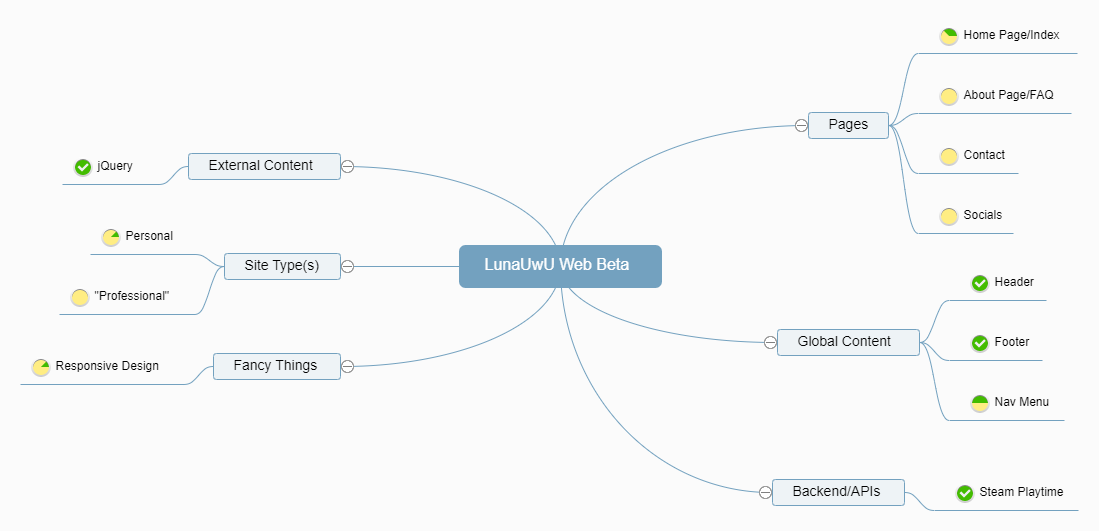
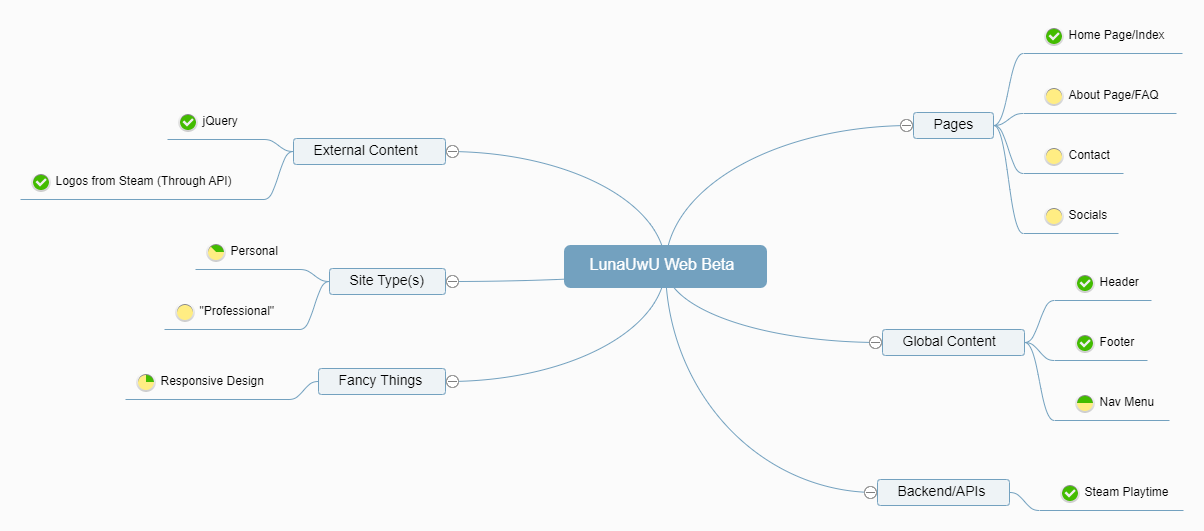
Finish(?) Index.

diff --git a/index.html b/index.html
@@ -24,6 +24,16 @@
 <body>
     <div class="nav-header" data-include="header"></div>
 
+
+
+  <!-- WIP Warning Overlay Banner -->
+  <div class="overlay-banner">
+    <p>This website is a work in progress. Some features may not be available.</p>
+    <a href="/mindmap.png">Click here to see the current progress status.</a>
+  </div>
+
+
+
     <div class="banner">
       <h1>Hello, I'm Luna.</h1>
       <p>Trans woman and a huge nerd.</p>
@@ -51,29 +61,125 @@
           <li>I'm gayer than your refrigerator.</li>
         </ul>
       </div>
+      </div>
+    </div>
+
+
+
+    <script>
+      fetch('https://api.lunauwu.net/playtime')
+          .then(response => response.json())
+          .then(data => {
+              // Update VRChat playtime
+              const vrcPlaytimeElement = document.getElementById('vrc-playtime');
+              vrcPlaytimeElement.textContent = `Hours on record: ${(data.vrchat.playtime / 60).toFixed(1)} hours`;
+
+              // Update VRChat image
+              const vrcImageElement = document.getElementById('vrc-image');
+              vrcImageElement.src = data.vrchat.image;
+
+              // Update Beat Saber playtime
+              const bsPlaytimeElement = document.getElementById('bs-playtime');
+              bsPlaytimeElement.textContent = `Hours on record: ${(data.beat_saber.playtime / 60).toFixed(1)} hours`;
+
+              // Update Beat Saber image
+              const bsImageElement = document.getElementById('bs-image');
+              bsImageElement.src = data.beat_saber.image;
+          })
+          .catch(error => {
+              console.error('Error fetching playtime data:', error);
+          });
+  </script>
+
+
+
+<div class="section2">
+  <h2>My heavy addiction to the virtual world</h2>
+<section class="image-section">
+  <div class="image-container">
+    <h3 class="image-title">VRChat, a social platform.</h3>
+    <img id="vrc-image" src="assets\image\loading.png" alt="VRChat">
+    <div class="caption-box">
+      <p class="caption">The social platform I've spent the most time and money on. I recommend only trying it if you're above 16 years of age.</p>
+      <p class="playtime-text" id="vrc-playtime">Loading...</p>
     </div>
   </div>
+  <div class="image-container">
+    <h3 class="image-title">Beat Saber, a rythm game.</h3>
+    <img id="bs-image" src="assets\image\loading.png" alt="Beat Saber">
+    <div class="caption-box">
+      <p class="caption">This game is not for the weak. It is responsible for countless injuries and broken hardware. Only play if you're ready to suffer.</p>
+      <p class="playtime-text" id="bs-playtime">Loading...</p>
+    </div>
+  </div>
+</section>
+</div>
+
+<script>
+
+window.addEventListener('load', function() {
+  const birthDate = new Date('2004-06-15'); // Replace with your birth date
+  const currentDate = new Date();
+  let age = currentDate.getFullYear() - birthDate.getFullYear();
+  const birthMonth = birthDate.getMonth();
+  const currentMonth = currentDate.getMonth();
+  const birthDay = birthDate.getDate();
+  const currentDay = currentDate.getDate();
+  if (currentMonth < birthMonth || (currentMonth === birthMonth && currentDay < birthDay)) {
+    age--;
+  }
+
+  const agePlaceholder = document.getElementById('agePlaceholder');
+  agePlaceholder.textContent = age;
+
+  const formattedBirthDate = birthDate.toLocaleDateString('en-GB');
+  const tooltipMessage = `I was born on ${formattedBirthDate}.`;
+  const omgimthisoldElement = document.getElementById('omgimthisold');
+  omgimthisoldElement.setAttribute('title', tooltipMessage);
+});
 
 
+</script>
 
-  <section id="home">
-    <h1>Welcome to Luna's Beta website.</h1>
-    <p>This site is actively being worked on.</p>
-    <a href="/mindmap.png">Click here to see the current progress status.</a>
+
+<div class="section3">
+
+  <section class="faq-section">
+    <h2>Frequently Asked Questions</h2>
+    <div class="faq-item">
+      <h3 class="question">Are you a furry?</h3>
+      <p class="answer">"Furry", the kind of person who has a special interest in anthropomorphic (Humanized) animals.<br>That sounds fitting I guess. So... Sure. I guess I might be a furry.</p>
+    </div>
+    <div class="faq-item">
+      <h3 class="question">Who made your X?</h3>
+      <p class="answer">There's a big chance that what you see me use is made either fully or partially by me.<br>I am decently skilled when it comes to being creative, so I tend to do my own work for things like logos, banners, avatar textures and other things.<br>If it's not fully my work, I will happily give credit when asked..</p>
+    </div>
+    <div class="faq-item">
+      <h3 class="question">What software do you use?</h3>
+      <p class="answer">I use a lot of Adobe software, such as Photoshop and After Effects<br>I orginally used Notepad++ to do my coding, but I later switched to Atom and now I'm using VSCode.<br>I also seem to like to use unstable software like Unity and Blender for some reason.</p>
+    </div>
+    <div class="faq-item">
+      <h3 class="question">What do you do?</h3>
+      <p class="answer">I mostly play games, mainly in VR, work a normal boring job and question my existence and life choices.<br>I also tend to start a bunch of projects that I never get to finishing.</p>
+    </div>
+    <div class="faq-item">
+      <h3 class="question">Any hobbies/interests?</h3>
+      <p class="answer">My hobbies are the following:<br>Gaming, VR stuff, server hosting, tech stuff, photography, coding, content creation and sleeping.</p>
+    </div>
+    <h4>And most importantly:</h4>
+    <div class="faq-item">
+      <h3 class="question">Who are you?</h3>
+      <p class="answer">I am Luna. I'm previously known as plsMajor.<br>I am an <span id="agePlaceholder"></span> year old, pansexual, transgender girl from Denmark.<br>I came out to the internet officially on January 11th 2022,<br>and to the real world almost exactly a year later in February of 2023.</p>
+    </div>
+<!--    
+    <div class="faq-item">
+      <h3 class="question">Q</h3>
+      <p class="answer">A</p>
+    </div>
+Hi future Luna! You can add more FAQ items if needed - Luna from the past. -->
   </section>
 
-  <section id="about">
-    <h2>About Me</h2>
-    <p>I'm a passionate tech enthusiast with interests in gaming, VR, coding, and more.</p>
-  </section>
-
-  <section id="contact">
-    <h2>Contact Me</h2>
-    <ul>
-      <li>Email: contact@lunauwu.net</li>
-      <li>Discord: imlunauwu</li>
-    </ul>
-  </section>
+</div>
 
 		<!-- Footer -->
 		<div data-include="footer"></div>

diff --git a/styles.css b/styles.css
@@ -1,5 +1,24 @@
 @import url(https://fonts.googleapis.com/css2?family=Plus+Jakarta+Sans&display=swap);
 
+
+
+/* Styling for the overlay banner */
+.overlay-banner {
+  position: fixed;
+  bottom: 0;
+  left: 0;
+  width: 100%;
+  background-color: rgba(0, 0, 0, 0.7); /* Semi-transparent black background */
+  color: white;
+  text-align: center;
+  padding: 20px;
+  font-size: 18px;
+  z-index: 9999; /* Ensure the banner is on top of other content */
+}
+
+
+
+
 /*#region Global/Body Styling */
 
 /* Root, Variables, Global Variables */
@@ -46,7 +65,7 @@ body {
     background-color: var(--secondary-bg-color);
     background: #121212;
     color: var(--primary-text-colorA);
-    font-family: "Plus Jakarta Sans", Arial, Helvetica, sans-serif;
+    font-family: "Plus Jakarta Sans";
   }
   
 /* #endregion */
@@ -179,14 +198,6 @@ svg#Luna {
  /*#endregion */
 
 /*#region Footer */
-  
-
-
-#footer {
-    padding: 8em 0 6em 0;
-    background: var(--primary-bg-color);
-    text-align: center;
-}
 
   /* Footer Icons */
 
@@ -212,7 +223,7 @@ svg#Luna {
   
  #footer {
     padding: 4em 0 2em 0;
-    background: var(--primary-bg-color);
+    background: var(--secondaty-bg-color);
     text-align: center;
   }
   
@@ -473,6 +484,8 @@ svg#Luna {
   text-align: center;
 }
 
+
+
 /* Adjust the width of the lists and center them */
 .section1 ul {
   display: flex; /* Display lists side by side */
@@ -500,22 +513,10 @@ svg#Luna {
   justify-content: center; /* Center divs horizontally */
   align-items: center; /* Center divs vertically */
   margin-top: 20px; /* Add space between title and divs */
-  overflow: auto; /* Allow horizontal scrolling if content overflows */
+
 }
 
-/* Style the divs */
-.section1 .randomness,
-.section1 .passions {
-  width: calc(50% - 1.5rem); /* Adjusted width with fixed spacing */
-  padding: 10px;
-  box-sizing: border-box;
-  margin: 0.75rem; /* Add half of the fixed spacing as margin */
-}
 
-/* Add fixed spacing between divs */
-.section1 .randomness {
-  margin-right: 1.5rem;
-}
 
 /* Style individual list items and force them onto new lines */
 .section1 li {
@@ -540,7 +541,108 @@ svg#Luna {
 
 /*#endregion */
 
+/*#region Section2 */
+
+/* Apply general styling to the section */
+.section2 {
+  padding: 3rem;
+  background-color: var(--secondary-bg-color);
+  text-align: center; /* Center content within the section */
+}
+
+/* Arrange the divs side by side */
+.section2 .image-section {
+  display: flex;
+  justify-content: center; /* Center divs horizontally */
+  align-items: flex-start; /* Center divs vertically */
+  margin-top: 20px; /* Add space between title and divs */
+
+}
+
+.playtime-text {
+  margin-top: .4em;
+  filter: brightness(150%);
+}
+
+
+/* Set font and color for paragraph text */
+.image-section p {
+  font-size: 16px;
+  color: var(--tertiary-text-color);
+}
+
+/* Apply general styling to the section */
+.image-section {
+  display: table;
+
+}
+
+.image-container {
+  display: table-cell;
+  text-align: center;
+  position: relative;
+  max-width: 30em;
+  margin-inline: 4em; /* The small space in between the two images. */
+}
+
+h3.image-title {
+padding-bottom: .4em;
+}
+
+.image-container img {
+  width: 100%;
+  border-radius: 8px 8px 0 0;
+  height: auto;
+}
+
+.caption-box {
+  align-items: center; /* Center divs vertically */
+  background-color: var(--primary-bg-color);
+  padding: 15px;
+  border-radius: 0 0 8px 8px;
+  box-sizing: border-box;
+  position: static; /* No moving >:) */
+  width: 100%; 
+  margin-top: -.4rem;
+  }
+
+.caption {
+  margin: 0;
+}
+/*#endregion */
   
+/*#region Section 3 */
+
+/* Apply styling to the FAQ section */
+.faq-section {
+  padding: 3rem;
+  background-color: var(--primary-bg-color);
+  text-align: center;
+}
+
+/* Style FAQ items */
+.faq-item {
+  margin-top: 2rem;
+}
+
+/* Style FAQ questions */
+.faq-item h3.question {
+  font-size: 20px;
+  color: var(--primary-text-color);
+}
+
+/* Style FAQ answers */
+.faq-item p.answer {
+  font-size: 16px;
+  color: var(--secondary-text-color);
+}
+
+
+
+/*#endregion*/
+
+
+
 
   
  
